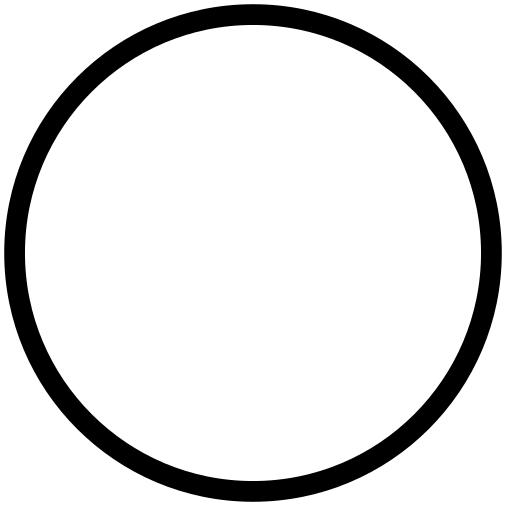
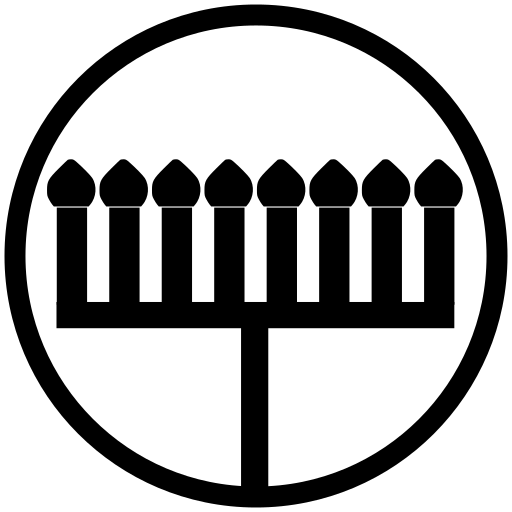
add: initial flickering

diff --git a/www/index.html b/www/index.html
@@ -26,6 +26,9 @@
         <span class="mdl-layout-title">Chanukah Menorah</span>
 
         <form id="options" action="#">
+          <p>
+            Tap the candles to light them.
+          </p>
         </form>
 
         <footer>
@@ -36,16 +39,113 @@
             </a>
           </nav>
 
-          Idea by PLACEHOLDER<br />
+          Idea by Stuart Altschuler.<br />
           App by <a href="http://metaist.com">Metaist LLC</a>
         </footer>
 
       </div>
-      <main class="mdl-layout__content page-content">
+      <main class="mdl-layout__content">
+        <div class="page-content center-center">
+          <div class="candle-stick">
+            <div class="candle">
+              <div class="red flame"></div>
+              <div class="orange flame"></div>
+              <div class="yellow flame"></div>
+              <div class="white flame"></div>
+              <div class="blue circle"></div>
+              <div class="black circle"></div>
+            </div>
+            <div class="stick"></div>
+          </div>
+
+          <div class="candle-stick">
+            <div class="candle">
+              <div class="red flame"></div>
+              <div class="orange flame"></div>
+              <div class="yellow flame"></div>
+              <div class="white flame"></div>
+              <div class="blue circle"></div>
+              <div class="black circle"></div>
+            </div>
+            <div class="stick"></div>
+          </div>
+
+          <div class="candle-stick">
+            <div class="candle">
+              <div class="red flame"></div>
+              <div class="orange flame"></div>
+              <div class="yellow flame"></div>
+              <div class="white flame"></div>
+              <div class="blue circle"></div>
+              <div class="black circle"></div>
+            </div>
+            <div class="stick"></div>
+          </div>
+
+          <div class="candle-stick">
+            <div class="candle">
+              <div class="red flame"></div>
+              <div class="orange flame"></div>
+              <div class="yellow flame"></div>
+              <div class="white flame"></div>
+              <div class="blue circle"></div>
+              <div class="black circle"></div>
+            </div>
+            <div class="stick"></div>
+          </div>
+
+          <div class="candle-stick">
+            <div class="candle">
+              <div class="red flame"></div>
+              <div class="orange flame"></div>
+              <div class="yellow flame"></div>
+              <div class="white flame"></div>
+              <div class="blue circle"></div>
+              <div class="black circle"></div>
+            </div>
+            <div class="stick"></div>
+          </div>
+
+          <div class="candle-stick">
+            <div class="candle">
+              <div class="red flame"></div>
+              <div class="orange flame"></div>
+              <div class="yellow flame"></div>
+              <div class="white flame"></div>
+              <div class="blue circle"></div>
+              <div class="black circle"></div>
+            </div>
+            <div class="stick"></div>
+          </div>
+
+          <div class="candle-stick">
+            <div class="candle">
+              <div class="red flame"></div>
+              <div class="orange flame"></div>
+              <div class="yellow flame"></div>
+              <div class="white flame"></div>
+              <div class="blue circle"></div>
+              <div class="black circle"></div>
+            </div>
+            <div class="stick"></div>
+          </div>
+
+          <div class="candle-stick">
+            <div class="candle">
+              <div class="red flame"></div>
+              <div class="orange flame"></div>
+              <div class="yellow flame"></div>
+              <div class="white flame"></div>
+              <div class="blue circle"></div>
+              <div class="black circle"></div>
+            </div>
+            <div class="stick"></div>
+          </div>
+
       </main>
     </div>
 
-    <script src="cordova.js"></script>
+    <!-- <script src="cordova.js"></script> -->
     <script src="app/index.js"></script>
   </body>
 </html>

diff --git a/www/app/index.css b/www/app/index.css
@@ -57,7 +57,14 @@ footer a {
   display: block;
 }
 
-.mdl-layout__content { overflow: hidden; }
+.mdl-layout__content {
+  overflow: hidden;
+  background-color: black;
+}
+
+.mdl-layout__drawer-button {
+  color: white;
+}
 
 .center-center {
   position: absolute;
@@ -72,4 +79,115 @@ footer a {
 
   text-align: center;
   vertical-align: center;
+}
+
+
+.page-content {
+  display: flex;
+  flex-wrap: nowrap;
+  justify-content: space-between;
+}
+
+.candle-stick {
+  align-self: center;
+}
+
+.stick {
+  background: white;
+  margin: 0px auto;
+  width: 30px;
+  height: 80px;
+  position: relative;
+}
+
+
+/* From: https://codepen.io/dazulu/pen/fGFyj */
+
+.candle {
+  display: none;
+  margin-bottom: 10px;
+  width: 30px;
+  height: 30px;
+  position:relative;
+  transform-origin:center bottom;
+  animation-name: flicker;
+  animation-duration:3ms;
+  animation-delay:200ms;
+  animation-timing-function: ease-in;
+  animation-iteration-count: infinite;
+  animation-direction: alternate;
+}
+
+.flame{
+  bottom:0;
+  position:absolute;
+  border-bottom-right-radius: 50%;
+  border-bottom-left-radius: 50%;
+  border-top-left-radius: 50%;
+  transform:rotate(-45deg) scale(1.5, 1.5);
+}
+
+.yellow{
+  left: 7px;
+  width: 15px;
+  height: 15px;
+  background:gold;
+  box-shadow: 0px 0px 4px 2px gold;
+}
+
+.orange{
+  left: 5px;
+  width: 20px;
+  height: 20px;
+  background:orange;
+  box-shadow: 0px 0px 3px 2px orange;
+}
+
+.red{
+  left: 2px;
+  width: 25px;
+  height: 25px;
+  background: OrangeRed;
+  box-shadow: 0px 0px 3px 2px OrangeRed;
+}
+
+.white{
+  left: 7px;
+  bottom: -2px;
+  width: 15px;
+  height: 15px;
+  background:white;
+  box-shadow: 0px 0px 4px 2px white;
+}
+
+.circle{
+  border-radius: 50%;
+  position:absolute;
+}
+
+.blue{
+  width: 5px;
+  height: 5px;
+  left: 12px;
+  bottom:-12px;
+  background: SlateBlue;
+  box-shadow: 0px 0px 7px 5px SlateBlue;
+}
+
+.black{
+  width: 20px;
+  height: 20px;
+  left: 5px;
+  bottom:-30px;
+  background: black;
+  box-shadow: 0px 0px 7px 5px black;
+}
+
+@keyframes flicker{
+  0%   {transform: rotate(-1deg);}
+  20%  {transform: rotate(1deg);}
+  40%  {transform: rotate(-1deg);}
+  60%  {transform: rotate(1deg) scaleY(1.04);}
+  80%  {transform: rotate(-2deg) scaleY(0.92);}
+  100% {transform: rotate(1deg);}
 }

diff --git a/www/app/index.js b/www/app/index.js
@@ -43,7 +43,8 @@ var app = {
   init: function () {
     bindEvents(this, {
       'document': {'deviceready': this.ready},
-      'form input': {'change': this.change}
+      'form input': {'change': this.change},
+      '.stick': {'click': this.light}
     });
 
     if(!IS_CORDOVA) {
@@ -59,14 +60,14 @@ var app = {
     // TODO
 
     // Grab preferences
-    if(IS_CORDOVA) {
-      this.store = plugins.appPreferences;
-      this.store.fetch(this.DATA_KEY).then(function (data) {
-        Object.assign(this.options, data || {});
-        // TODO: update settings UI
-        this.render();
-      }.bind(this));
-    }
+    // if(IS_CORDOVA) {
+    //   this.store = plugins.appPreferences;
+    //   this.store.fetch(this.DATA_KEY).then(function (data) {
+    //     Object.assign(this.options, data || {});
+    //     // TODO: update settings UI
+    //     this.render();
+    //   }.bind(this));
+    // }
 
     return this;
   },
@@ -74,9 +75,20 @@ var app = {
   change: function () {
     // TODO: check values and update options
 
-    if (IS_CORDOVA) {
-      this.store.store(noop, noop, this.DATA_KEY, this.options);
-    }//end if: options stored
+    // if (IS_CORDOVA) {
+    //   this.store.store(noop, noop, this.DATA_KEY, this.options);
+    // }//end if: options stored
+    return this;
+  },
+
+  light: function (e) {
+    this.options.debug && console.log('.light()');
+    var element = e.target.parentElement.children[0];
+    if('block' === element.style.display) {
+      element.style.display = 'none';
+    } else {
+      element.style.display = 'block';
+    }
     return this;
   },
 
